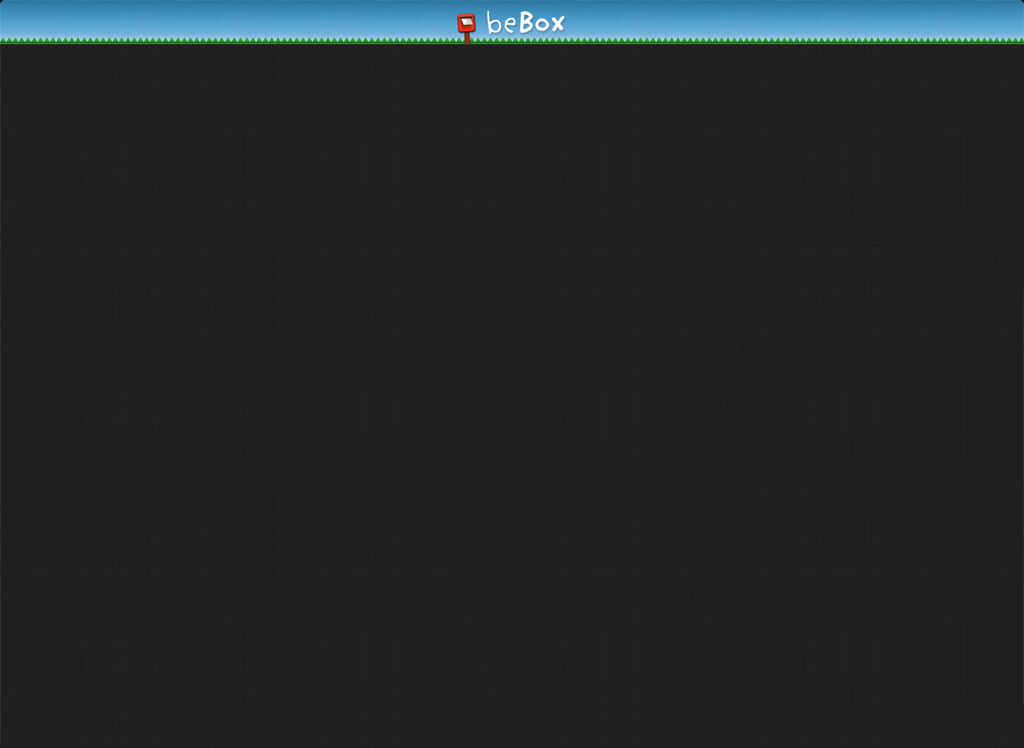
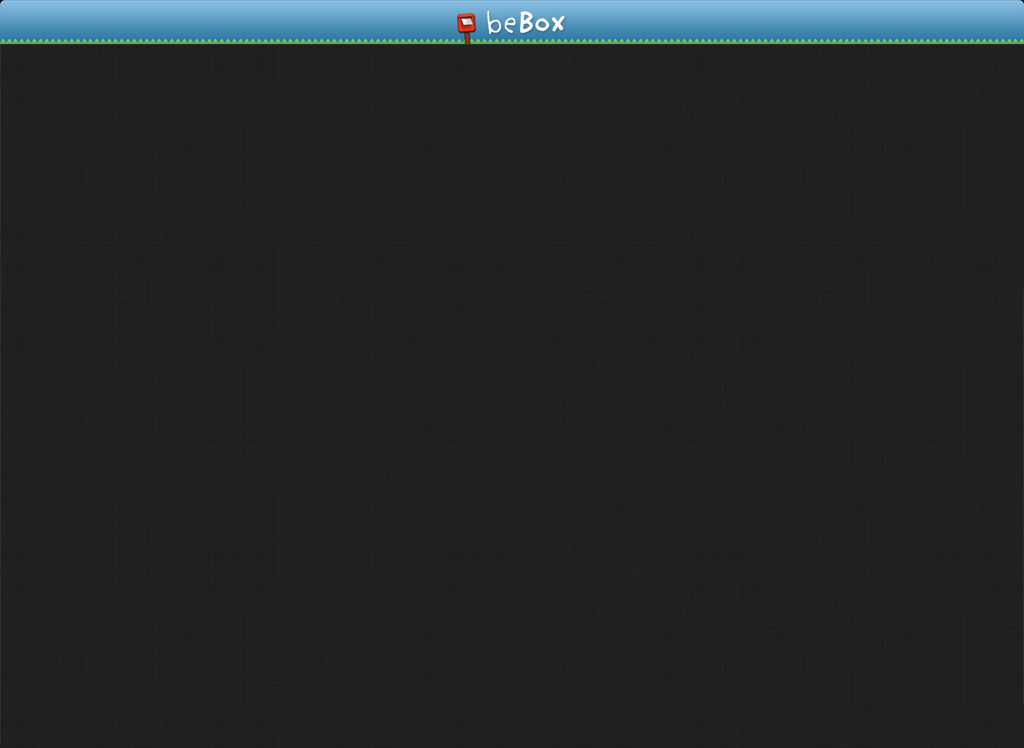
A whole bunch of graphics updates.

Changed region(s): [[0.0, 0.0, 1.0, 0.0615]]

diff --git a/Boxlox/Boxlox/PostBoxCell.m b/Boxlox/Boxlox/PostBoxCell.m
@@ -29,13 +29,14 @@
         
         _distanceLabel = [[UILabel alloc] init];
         _distanceLabel.font = [UIFont systemFontOfSize:12];
-        _distanceLabel.textColor = [UIColor colorWithHex:0xdddddd];
-        _distanceLabel.backgroundColor = [UIColor colorWithHex:0x888888];
+        _distanceLabel.textColor = [UIColor colorWithHex:0x888888];
+        _distanceLabel.backgroundColor = [UIColor clearColor];
         _distanceLabel.layer.cornerRadius = 3;
         _distanceLabel.textAlignment = UITextAlignmentCenter;
+        _distanceLabel.opaque = NO;
         [[self contentView] addSubview:_distanceLabel];
 
-        self.imageView.highlightedImage = [UIImage imageNamed:@"postbox-hilite.png"];
+        self.imageView.highlightedImage = [UIImage imageNamed:@"postbox-hilite-noshadow.png"];
     }
     return self;
 }
@@ -52,7 +53,7 @@
         self.detailTextLabel.text = [NSString stringWithFormat:@"Last cleared: %@", [box todaysClearance]];
     }
     
-    self.imageView.image = [UIImage imageNamed:[box hasClearanceScheduledForToday] ? @"postbox-open.png" : @"postbox-closed.png"];
+    self.imageView.image = [UIImage imageNamed:[box hasClearanceScheduledForToday] ? @"postbox-open-noshadow.png" : @"postbox-closed-noshadow.png"];
     
     if ([BoxLox boxLocator].canLocateUser) {
         CLLocationDistance distance = [box.location distanceFromLocation:[BoxLox boxLocator].userLocation];
@@ -71,8 +72,9 @@
 - (void)layoutSubviews {
     [super layoutSubviews];
     
-    _distanceLabel.frame = (CGRect) { CGRectGetMaxX(self.contentView.bounds) - _distanceLabelSize.width - 10, self.detailTextLabel.frame.origin.y, _distanceLabelSize };
-    _distanceLabel.frame = CGRectInset(_distanceLabel.frame, -2, -1);
+    _distanceLabel.frame = (CGRect) { CGRectGetMidX(self.imageView.frame)-_distanceLabelSize.width/2, self.detailTextLabel.frame.origin.y - 5, _distanceLabelSize };
+    
+    self.imageView.frame = CGRectOffset(self.imageView.frame, 0, -8);
 }
 
 + (Class)layerClass {

diff --git a/Boxlox/Boxlox/AppDelegate.m b/Boxlox/Boxlox/AppDelegate.m
@@ -50,10 +50,9 @@
         }
         
         UINavigationController* navigationController = [[UINavigationController alloc] initWithRootViewController:rootViewController];
-        [[UINavigationBar appearance] setTintColor:[UIColor colorWithHex:0x3c8cbb]];
         [[UINavigationBar appearance] setBackgroundImage:[[UIImage imageNamed:@"titlebg.png"] resizableImageWithCapInsets:UIEdgeInsetsZero] forBarMetrics:UIBarMetricsDefault];
-        [[UIBarButtonItem appearance] setBackButtonBackgroundImage:[[UIImage imageNamed:@"back.png"] resizableImageWithCapInsets:UIEdgeInsetsMake(0, 15, 0, 10)] forState:UIControlStateNormal barMetrics:UIBarMetricsDefault];
-        [[UIBarButtonItem appearance] setBackButtonBackgroundImage:[[UIImage imageNamed:@"back-hi.png"] resizableImageWithCapInsets:UIEdgeInsetsMake(0, 15, 0, 10)] forState:UIControlStateHighlighted barMetrics:UIBarMetricsDefault];
+        [[UIBarButtonItem appearance] setBackButtonBackgroundImage:[[UIImage imageNamed:@"back.png"] resizableImageWithCapInsets:UIEdgeInsetsMake(0, 14, 0, 5)] forState:UIControlStateNormal barMetrics:UIBarMetricsDefault];
+        [[UIBarButtonItem appearance] setBackButtonBackgroundImage:[[UIImage imageNamed:@"back-hi.png"] resizableImageWithCapInsets:UIEdgeInsetsMake(0, 14, 0, 5)] forState:UIControlStateHighlighted barMetrics:UIBarMetricsDefault];
         self.window.rootViewController = navigationController;
 
         // Override point for customization after application launch.

diff --git a/Boxlox/Boxlox/PostBoxAnnotationView.m b/Boxlox/Boxlox/PostBoxAnnotationView.m
@@ -18,7 +18,7 @@
     if (self) {
         UIImage* image = [UIImage imageNamed:[annotation.postBox hasClearanceScheduledForToday] ? @"postbox-open.png" : @"postbox-closed.png"];
         self.layer.contents = (id)[image CGImage];
-        self.frame = (CGRect) { 0, 0, 24, 24 };
+        self.frame = (CGRect) { 0, 0, 32, 24 };
     }
     return self;
 }
